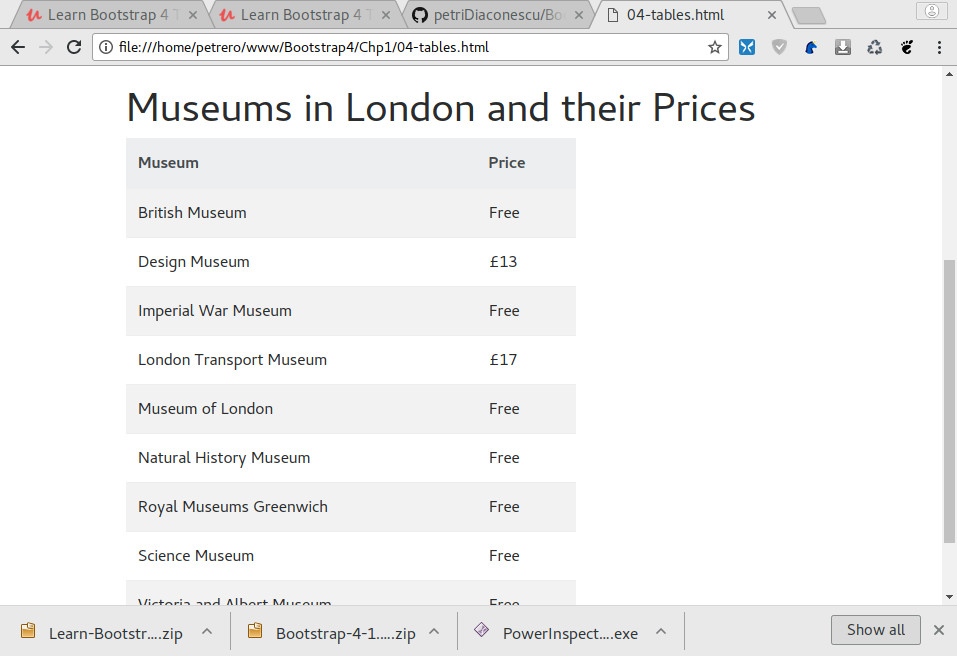
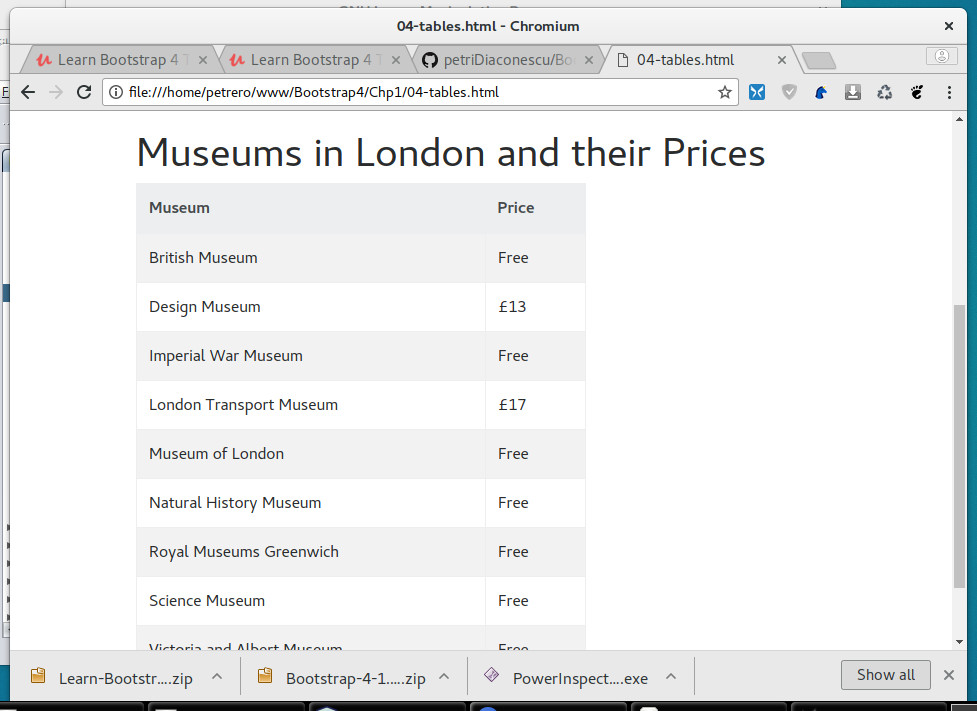
Add borders to the table with table-bordered bootstrap class.

diff --git a/Chp1/04-tables.html b/Chp1/04-tables.html
@@ -28,7 +28,7 @@
         <h1>Museums in London and their Prices</h1>
         <div class="row">
           <div class="col-8">
-            <table class="table table-striped">
+            <table class="table table-striped table-bordered">
                 <caption>Museums in London</caption>
                 <thead class="thead-default">
                   <tr>
